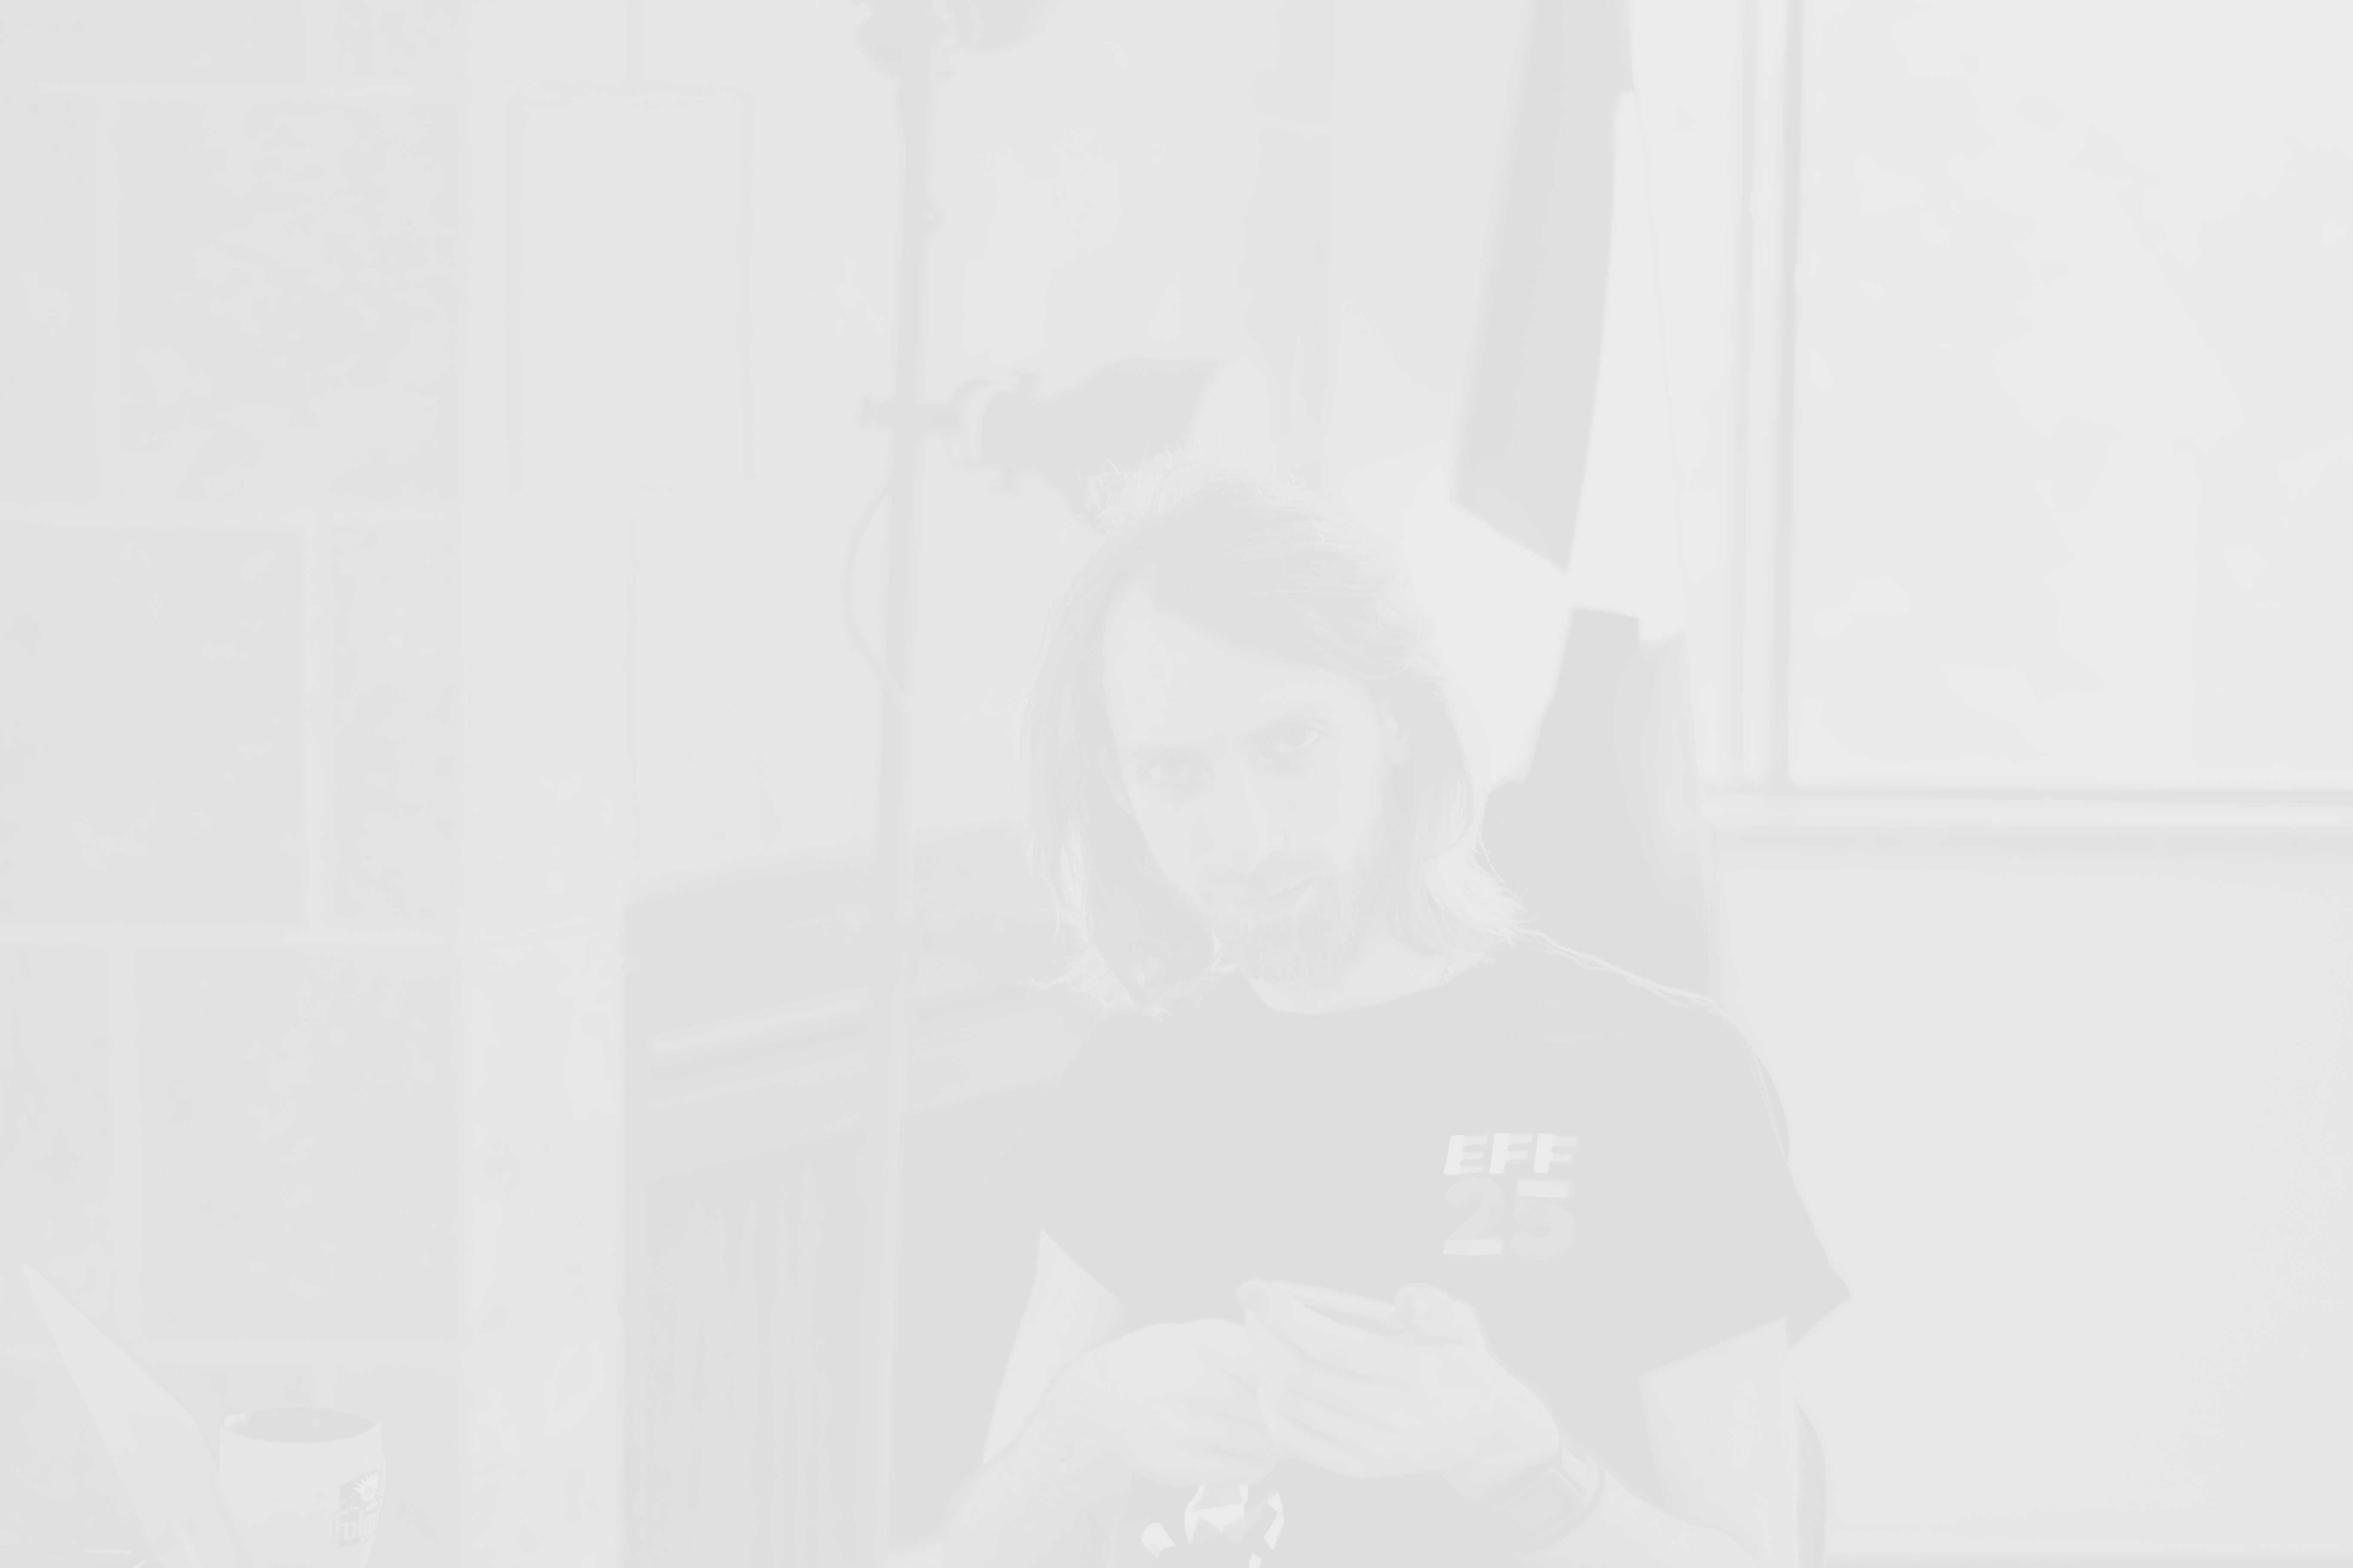
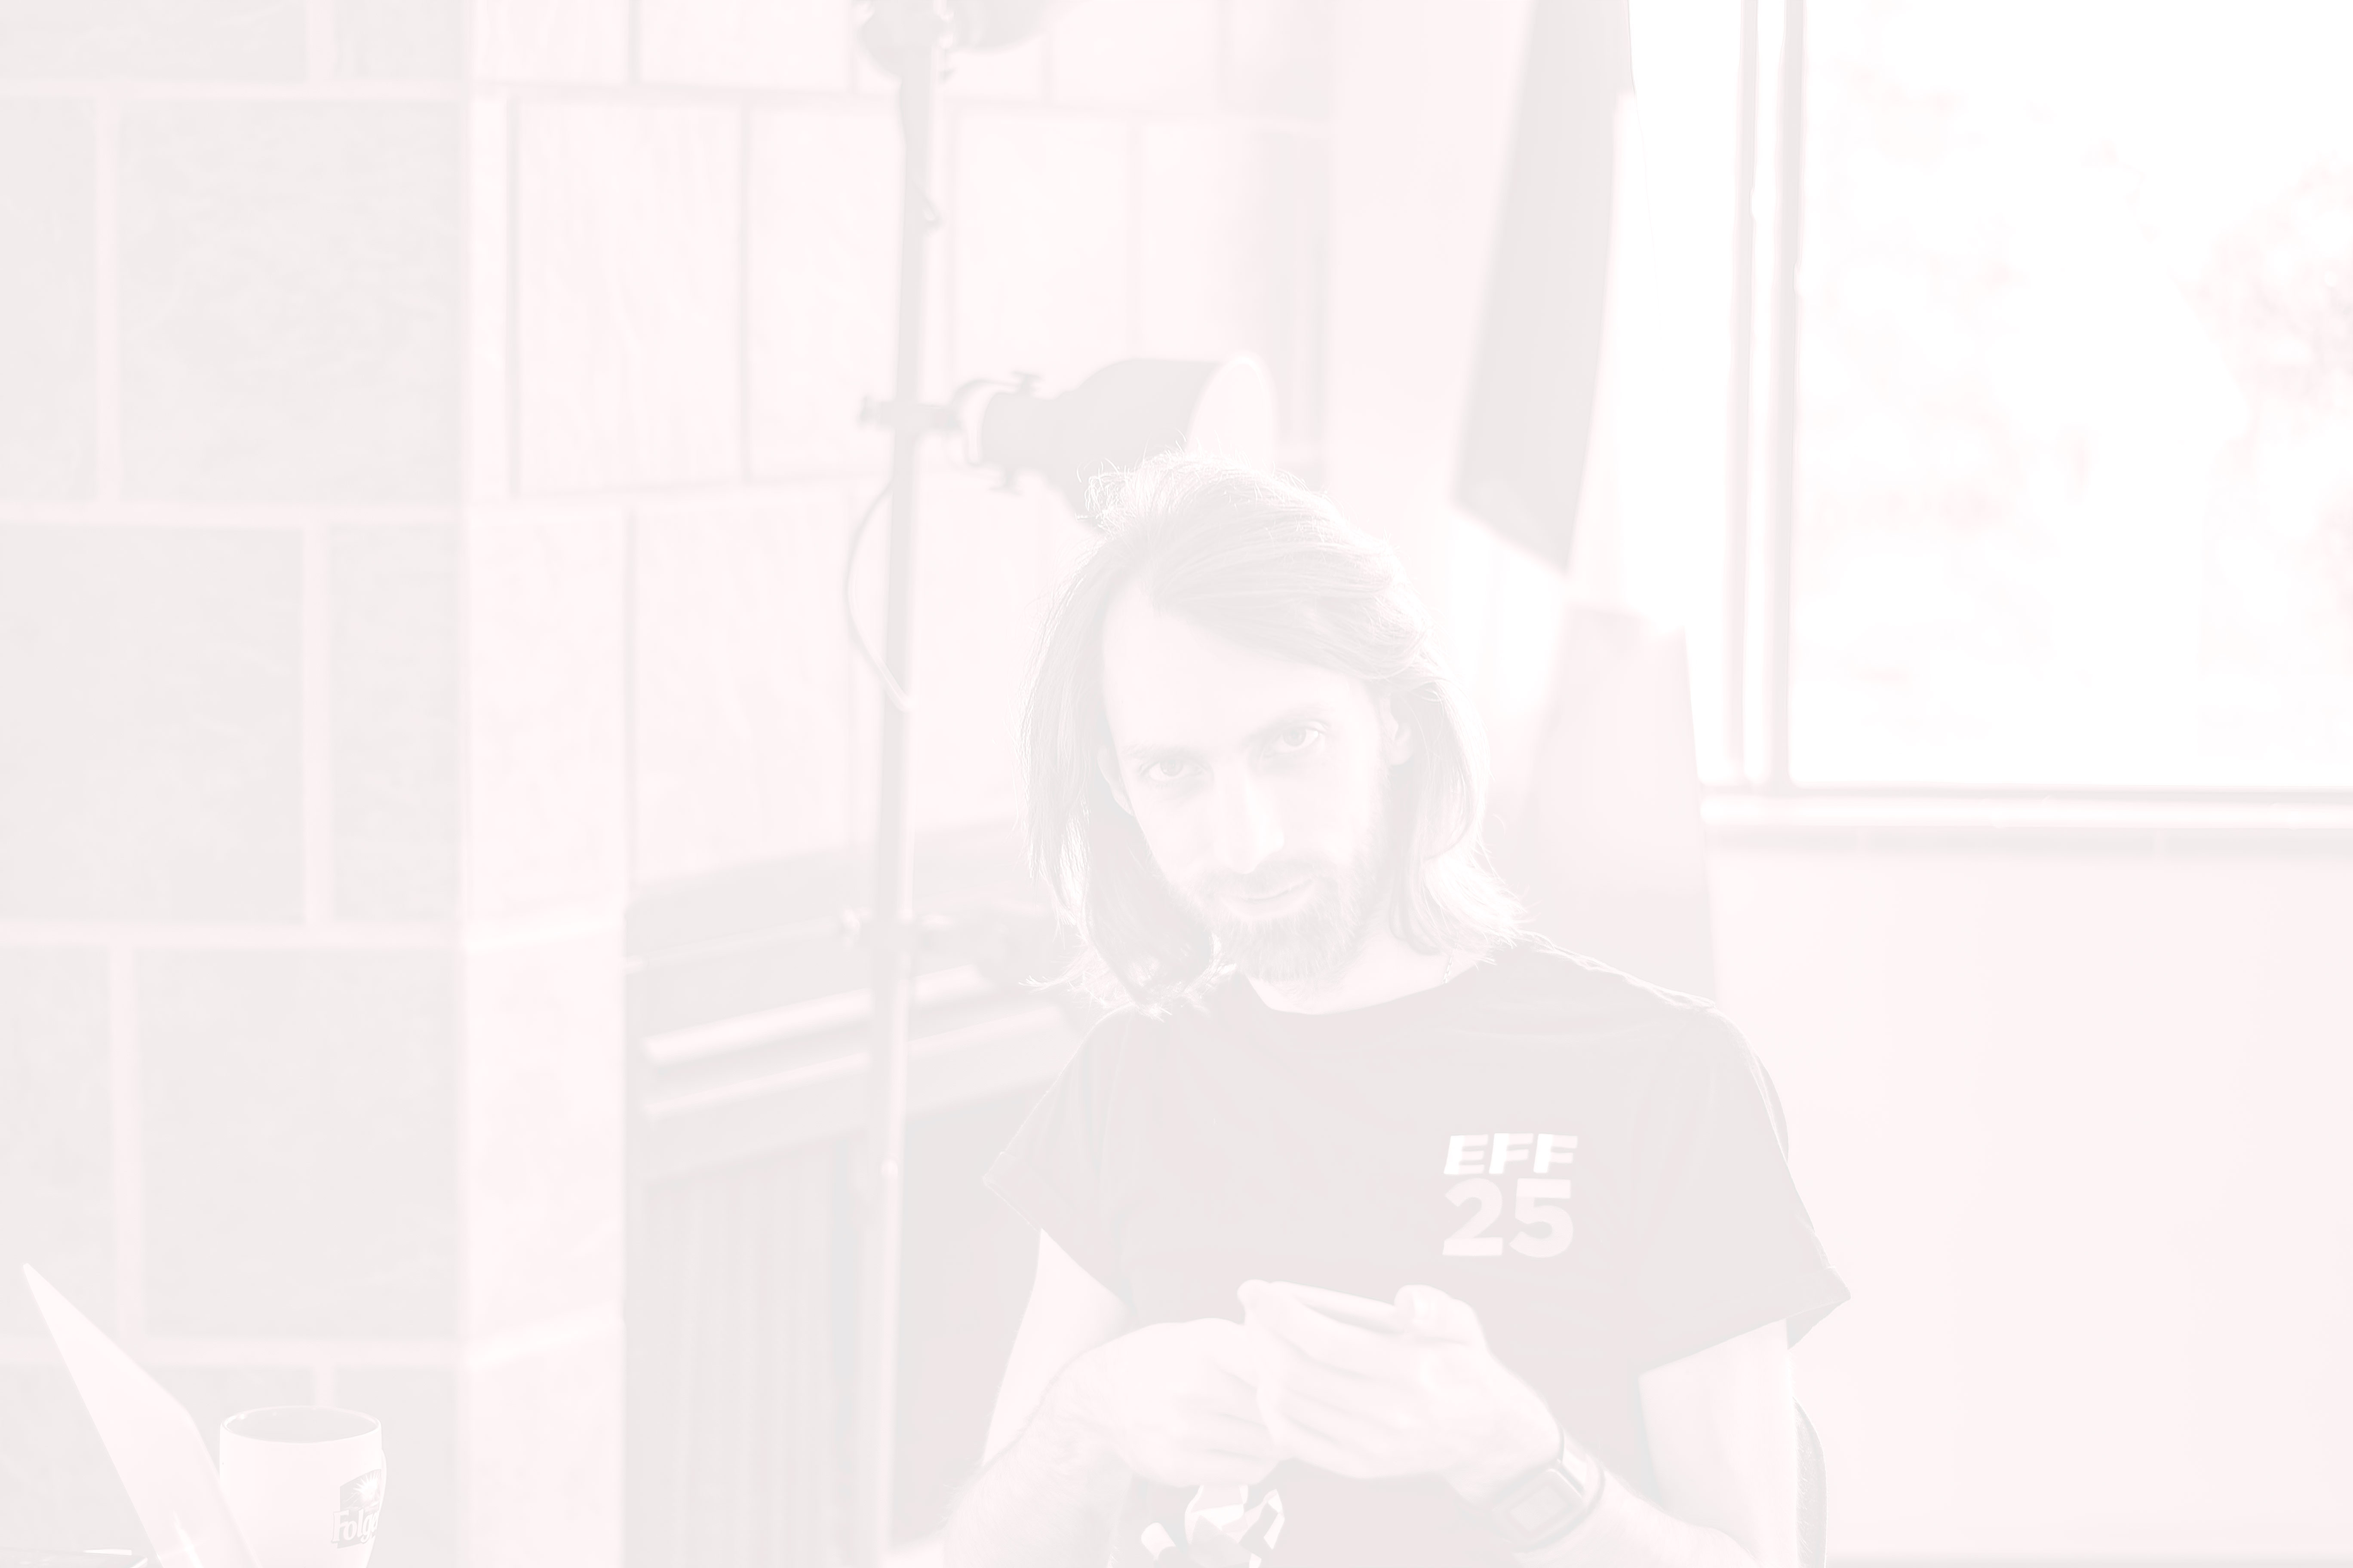
Small update of background.

diff --git a/www/_sass/_layout.scss b/www/_sass/_layout.scss
@@ -69,19 +69,13 @@ header.page {
     box-shadow: 0 0 10px 5px rgba(0, 0, 0, 0.1);
     border-bottom: 1px solid rgba(0, 0, 0, 0.1);
     white-space: nowrap; /* don't like this - but without, the content wraps on mobile devices */
+    background: url('/img/maarten.jpg') center bottom fixed;
+    background-size: cover;
 
     color: black;
+    text-shadow: 0 1px white;
 
     /* Transparent background */
-    &::before {
-        content: "";
-        position: absolute;
-        z-index: -1;
-        width: 100%;
-        height: 100%;
-        background: url('/img/maarten.jpg') center bottom;
-        background-size: cover;
-    }
     &>.click {
         display: block;
         position: absolute;

diff --git a/www/index.html b/www/index.html
@@ -4,7 +4,7 @@ layout: default
 
 <header class="page">
     <div class="content">
-        <h1><br>~Lhunath</h1>
+        <h1><br><br>~Lhunath</h1>
         <h3>Maarten Billemont</h3>
     </div>
     <div class="bottom">
